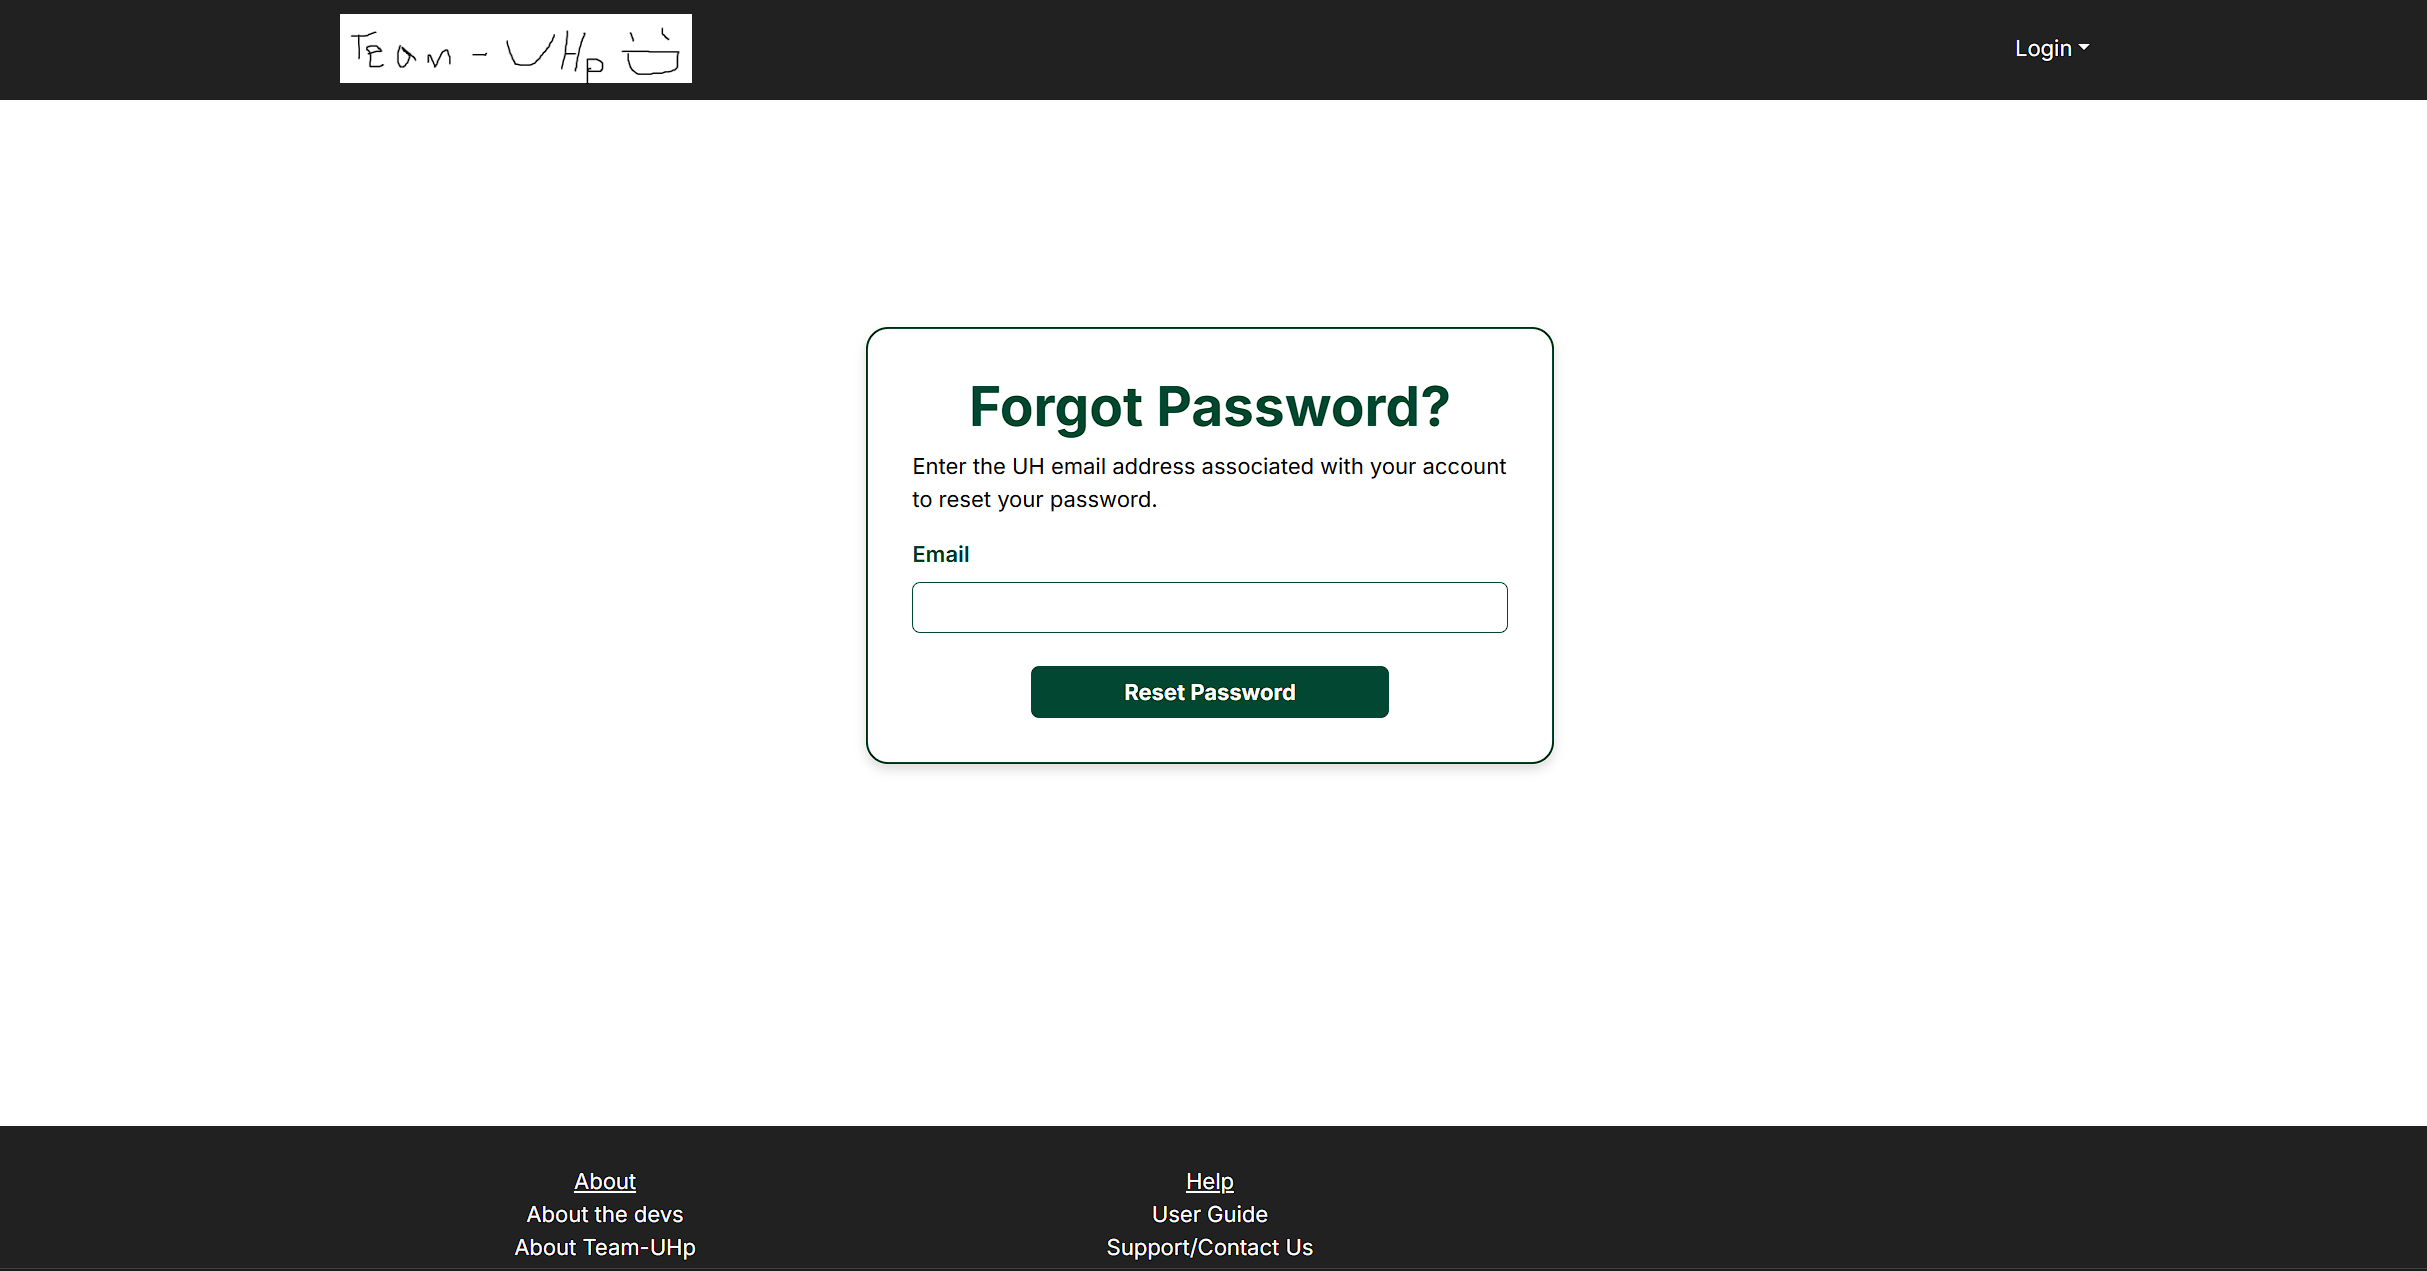
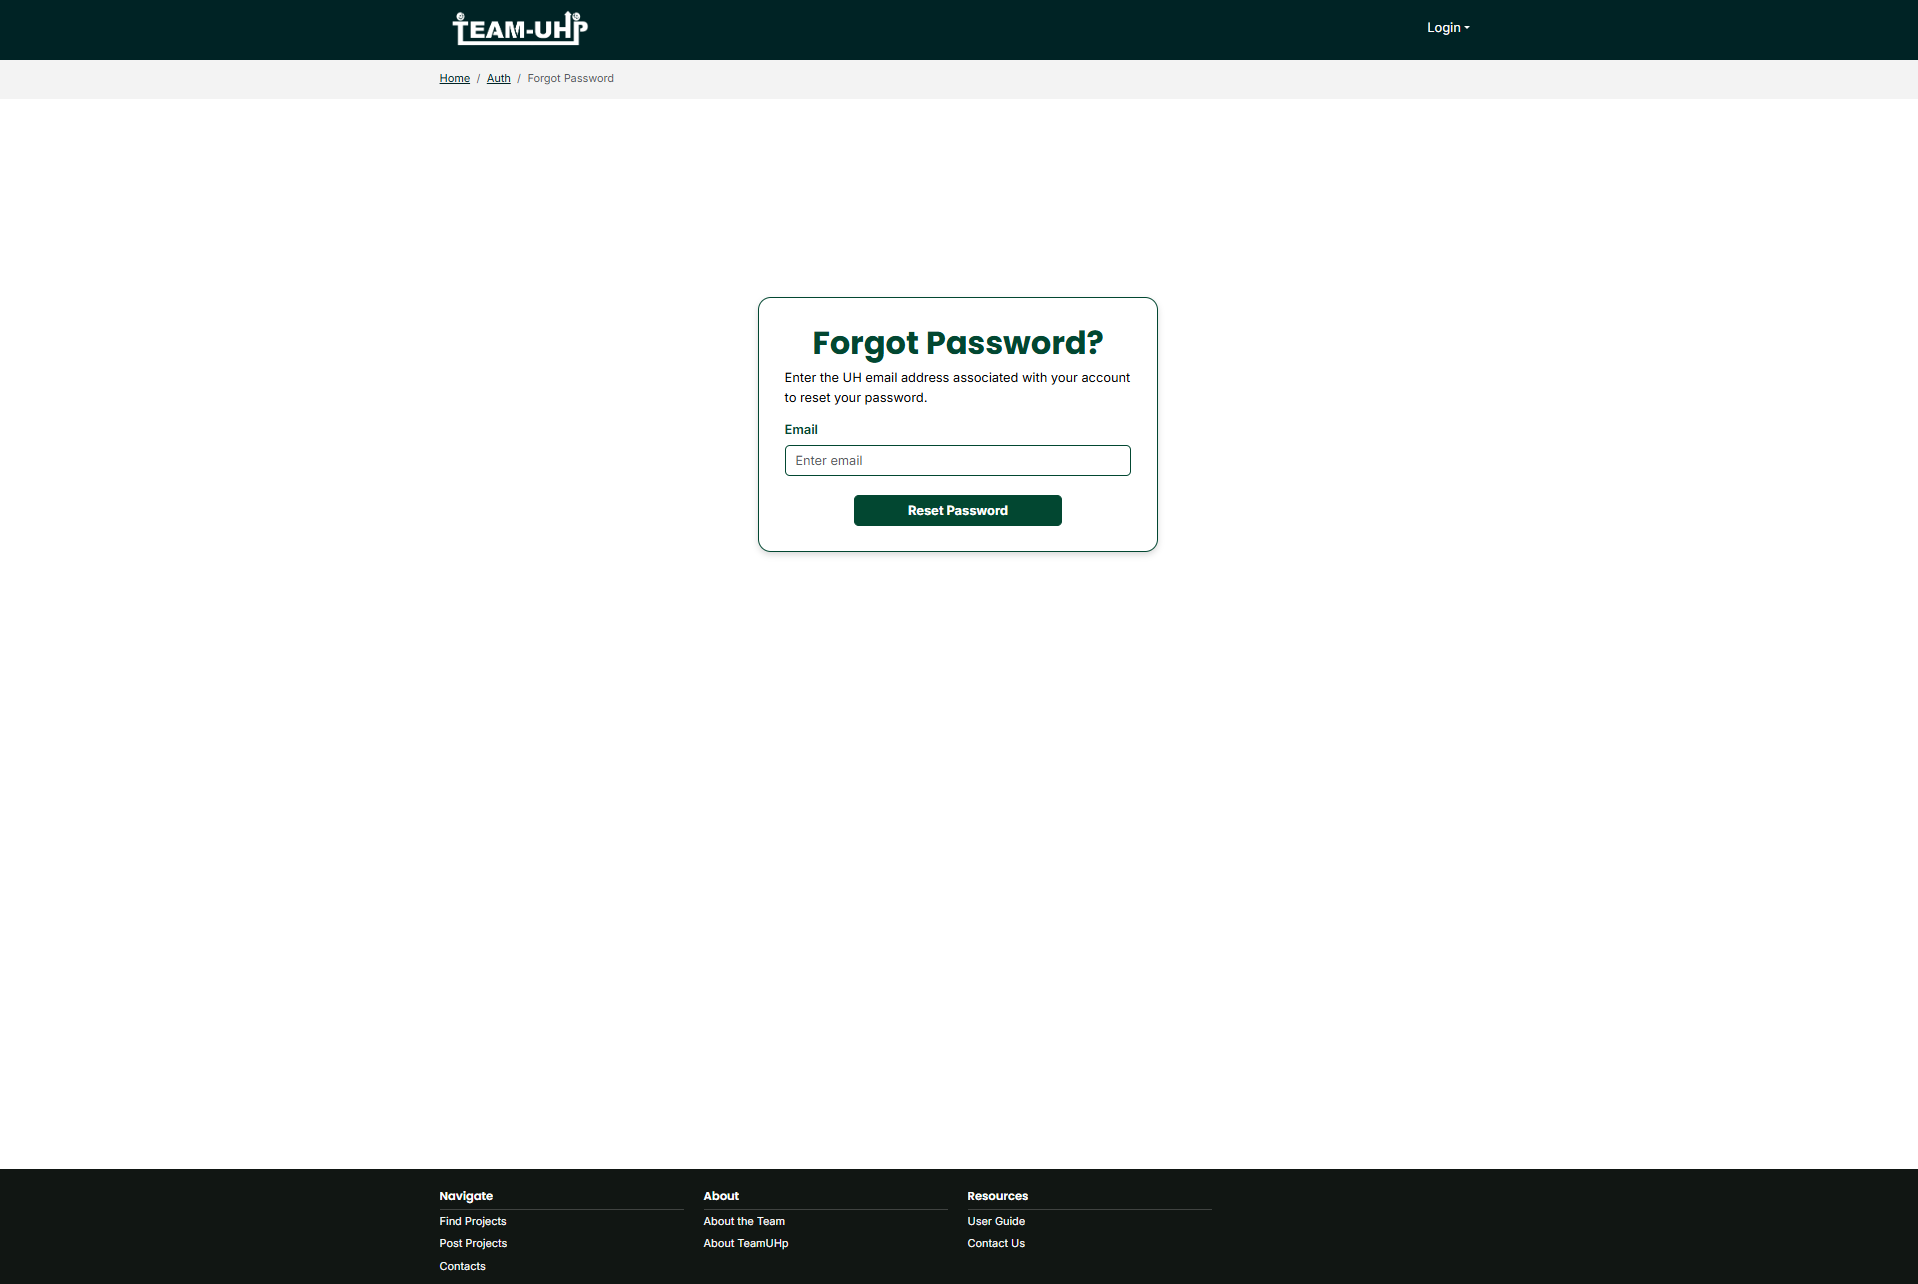
Updated screenshots and descriptions for deployed pages.

diff --git a/index.md b/index.md
@@ -23,47 +23,43 @@ The TeamUHp! web application is deployed through Vercel cloud platform and hoste
 This section provides a walkthrough of the TeamUHp! user interface and its capabilities.
 
 **Landing Page** <br>
-The landing page is presented to users when they visit the top-level URL to the site.
-<!-- TO DO -->
+<!-- TO DO: Update "Helpful Tools page" as described in this paragraph -->
+The landing page is presented to users when they visit the website. Clicking any of the internal page links without being signed in redirects the user to the Sign In page. Clicking the Helpful Tools link will take the user to a collection of external site links Team UHp thinks you might find helpful. Clicking the About Us or Resources links in the footer will redirect the user to those pages without requiring signing in.
 <img class="padded" src="images\pages\landing-page.png">
 
-**List Projects Page** <br>
-<!-- Verify with team if this is specific to owners' projects -->
-The projects list page lists all projects the session user has uploaded. Each listing briefly displays their due dates, short descriptions, and skills being recruited for:  
-
-<img class="padded" src="images\pages\owner-project-list-page.png">
-
-**Project Page** <br>
-Each individual project page displays the project's details. This includes the project's due date, full description, team members, member openings, and skills being searched by tags. 
-When logged in as the project owner, the subsequent link "Recruit for Opening" is visible:
-
-<img class="padded" src="images\pages\owner-project-page.png">
-
 **Sign In Page** <br>
-The project's sign in page customized with UH Manoa's colors. Place holder right now for future functionality of recovering password.
-
+The sign in page allows users to sign in and provides links for creating a new account, requesting a link to reset forgotten password.
 <img class="padded" src="images\pages\viewer-sign-in-page.png">
 
-**Sign Up Page** <br>
-The project's sign in page customized with UH Manoa's colors. May or may not use this page to input details related to things like username, interests, account details. To be decided
+**Forgot Password Page** <br>
+If a user has forgotten their password, they may reset it by inputting the email associated with their accuont, and receive an email from TeamUHp automation (team.uhp.automation@gmail.com) to reset the password.
+<img class="padded" src="images\pages\forgot-password-page.png">
 
+**Sign Up Page** <br>
+If a user has no yet created an account, they may sign up using UH email address. After filling in the necessary account information, an automated email is sent to verify the account. The user must check their email to follow the link to verification. All automation links are sent from the team's automation contact: team.uhp.automation@gmail.com.
 <img class="padded" src="images\pages\viewer-sign-up-page.png">
+
+**List Projects Page** <br>
+<!-- TO DO: Include filtering (by due date) capabilities mentioned in this paragraph -->
+The project list provides clickable summaries for all active projects. The list is sorted by number of skills that the user and each project have in common.
+<img class="padded" src="images\pages\project-list-page.png">
 
 
 **Add Projects Page**
-<!-- TO DO -->
+Clicking on the "Add Project" button from the Project List page, users can post a project by filling in Ttitle, description, and due date of the project. Line breaks in the description input are preserved when displaying the description on the project page. 
+<img class="padded" src="images\pages\add-project-page.png">
 
-**Position Page** <br>
-End users looking for projects will view a project page, then click on a specific position. The specified posiiton is detailed on its own page, and included is a link to apply for the position:
+**Project Page** <br>
+Each individual project page displays the project's details. The project page provides the project image/banner, title, description, project members, openings on the project, and the skills sought across all openings. Clicking on openings will take users to the opening page. If no image is provided during the Project's Creation, a default banner is displayed.<!-- "Default Banner" subject to change after photo sharing solution --> When logged in as a project's admin, the subsequent button "Recruit for Opening" is visible:
+<img class="padded" src="images\pages\owner-project-page.png">
 
-<img class="padded" src="images\pages\viewer-position-page.png">
+**Opening Page** <br>
+End users looking for projects will view a project page, then click on a specific position opening. The specified posiiton is detailed on its own page and provides the title, description, and skills sought of the project opening. Users can click the link to apply for the position.
+<img class="padded" src="images\pages\opening-page.png">
 
 **Add Opening Page** <br>
-The add opening page is used for project posters to open positions for members they seek to recruit. They can specify the title for the position, add a description for project tasks, and schedule the dates for which the project is open to contributors:
-
-<img class="padded" src="images\pages\owner-add-opening-page.png">
-
-
+The add opening page is used for project posters to open positions for members they seek to recruit. They can specify the title for the position, add a description for project tasks, select specific skills needed for the position, and schedule the dates for which the project is open to contributors:
+<img class="padded" src="images\pages\add-opening-page.png">
 
 ## Development History
 The development process for TeamUHp conforms to Issue Driven Project Management (IDPM) practices. In this model: 
